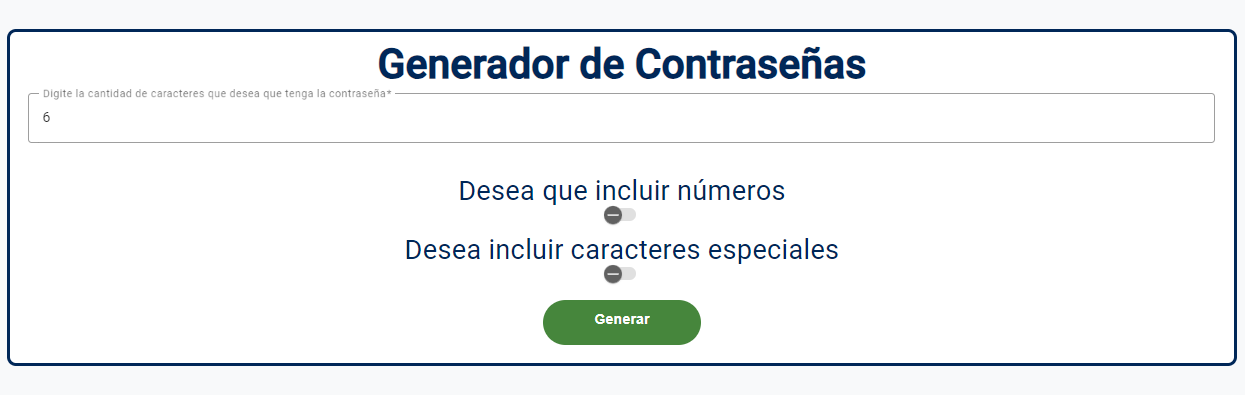
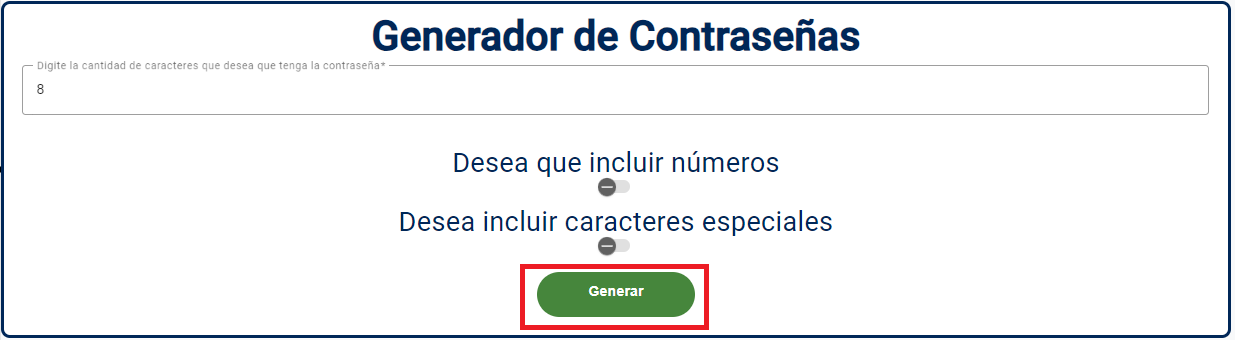
new file:   ImgReadme/btnCopiar.png 	modified:   ImgReadme/btnvalido.png 	new file:   ImgReadme/cuadroContra.png 	new file:   ImgReadme/switch.png 	modified:   README.md

Changed region(s): [[0.0, 0.0, 1.0, 1.0], [0.3692, 0.4412, 0.6462, 0.5882]]

diff --git a/README.md b/README.md
@@ -1,12 +1,12 @@
 # Introducción:
-Esta aplicación web desarrollada con el lenguaje de Angular y  se encarga de generar contraseñas aleatorias con base a las opciones que el usuario
-desee habilitar como la longitud, caracteres numéricos y especiales para la contraseña.
+Está aplicación web esta desarrollada con el lenguaje de Angular y  se encarga de generar contraseñas aleatorias con base a las opciones que el usuario desee habilitar como la longitud, caracteres numéricos y especiales para la contraseña.
 
 # Instalación:
-Para poder ejecutar esta aplicación es necesario instalar:
+Para poder ejecutar esta aplicación localmente es necesario instalar:
 - Node.js v18.
 - Angular CLI: 16.
 - Visual Studio code.
+
 Así como también instalar la extensión Angular Language Service v16.1.8.
 Y las siguientes librerías:
 - ClipboardModule(npm install ngx-clipboard).
@@ -33,7 +33,7 @@ Y las siguientes librerías:
     "zone.js": "~0.13.0"
 
 # Ejecución local:
-Para ejecutar localmente la aplicación, es necesario abrir el proyecto en visual studio y en una terminal ejecutar el comando "ng s".
+Para ejecutar localmente la aplicación, es necesario abrir el proyecto en visual studio y en una terminal ejecutar el comando "npm install". Luego, para abrir una ventana del navegador, en la misma terminal colocamos el codigo "ng s". Con esto el sistema nos indicará en qué local host está el proyecto disponible, como por ejemplo "http://localhost:4200/".
 
 # Manual de la aplicacion:
 Una vez que ejecutamos la aplicación localmente, el navegador nos mostrara la siguiente ventana:
@@ -41,6 +41,8 @@ Una vez que ejecutamos la aplicación localmente, el navegador nos mostrara la s
 
 En esta ventana podemos definir la cantidad de caracteres, si deseamos que la contraseña lleve números y
 si deseamos que la contraseña lleve caracteres especiales como: !,@,(,) entre otros.
+
+Importante tener en cuenta que las opciones de caracteres especiales y números, el sistema los tomara en cuenta para generar la contraseña al azar. Esto significa que cabe la posibilidad de que la contraseña, aunque marquemos esta opción, no contenga estos caracteres o números porque se generan aleatoriamente. 
 
 - Agregando la cantidad o longitud de caracteres:
 Como se muestra en la imagen, en el campo con la leyenda "Digite la cantidad de caracteres que desea   que tenga la contraseña", podemos digitar la cantidad de caracteres que queremos que se generen en la contraseña. En este caso voy a colocar una contraseña con la cantidad de 5 caracteres, ver imagen a continuación:
@@ -56,26 +58,32 @@ Este campo contiene validaciones las cuales se van a detallar a continuación:
 2- El primer número debe de ser mayor a 0. En caso de que coloquemos un 0 de entrada, el sistema nos mostrara el siguiente mensaje:
 ![Alt text](ImgReadme/cant0.png).
 3- El sistema no permitirá que se coloquen los siguientes caracteres: "+, -, . y e". Si se colocan nos mostrará el siguiente mensaje:
-![Alt text](ImgReadme/cant+-e.png)
+![Alt text](ImgReadme/cant+-e.png).
 
 - Escogiendo números en la contraseña:
+El sistema está configurado para que por defecto la contraseña no contenga números, por lo que nos mostrara el switch de la forma siguiente forma:
+![Alt text](ImgReadme/switch.png). Si al momento de querer generar una contraseña no cambiamos o interactuamos con este switch y presionamos el botón "Generar", el sistema procederá a generar la contraseña sin la posibilidad de que los números sean tomados en cuenta.
+
 Si deseamos que la contraseña contenga números, debemos de dar un clic al switch y deberá de quedar de la siguiente forma:
 ![Alt text](ImgReadme/numerosP.png).
 Una vez seleccionado el sistema nos mostrará el siguiente mensaje:
 ![Alt text](ImgReadme/mensajeN.png).
 
-Si "NO" deseamos que la contraseña contenga números, el switch deberá de quedar de la siguiente forma:
+Si cambiamos de parecer y "NO" deseamos que la contraseña contenga números después de haber interactuado con el switch, debemos de cambiar el switch y dejarlo de la siguiente forma:
 ![Alt text](ImgReadme/numerosS.png).
 Una vez seleccionado el sistema nos mostrará el siguiente mensaje:
 ![Alt text](ImgReadme/mensajeS.png).
 
 - Escogiendo caracteres especiales en la contraseña:
+El sistema está configurado para que por defecto la contraseña no contenga caracteres especiales, por lo que nos mostrara el switch de la forma siguiente forma:
+![Alt text](ImgReadme/switch.png). Si al momento de querer generar una contraseña no cambiamos o interactuamos con este switch y presionamos el botón "Generar", el sistema procederá a generar la contraseña sin la posibilidad de que los caracteres especiales sean tomados en cuenta.
+
 Si deseamos que la contraseña contenga caracteres especiales, debemos de dar un clic al switch y deberá de quedar de la siguiente forma:
 ![Alt text](ImgReadme/especialMP.png)
 Una vez seleccionado el sistema nos mostrará el siguiente mensaje:
 ![Alt text](ImgReadme/EspecialesM.png)
 
-Si "NO" deseamos que la contraseña contenga caracteres especiales, el switch deberá de quedar de la siguiente forma:
+Si cambiamos de parecer y "NO" deseamos que la contraseña contenga caracteres especiales después de haber interactuado con el switch, debemos de cambiar el switch y dejarlo de la siguiente forma:
 ![Alt text](ImgReadme/especialesP.png)
 Una vez seleccionado el sistema nos mostrará el siguiente mensaje:
 ![Alt text](ImgReadme/MensajesPS.png)
@@ -84,7 +92,13 @@ Una vez seleccionado el sistema nos mostrará el siguiente mensaje:
 Una vez que escogemos las opciones que deseamos y la longitud de la contraseña, procedemos con presionar el botón de "Generar" ![Alt text](ImgReadme/btnVerde.png), para que el sistema nos genere la contraseña y nos mostrara la contraseña en el siguiente mensaje:
 ![Alt text](ImgReadme/mensajeContra.png).
 
-Si queremos copiar la contraseña, podemos presionar el siguiente icono con la leyenda "Copiar contraseña" como se muestra en la siguiente imagen:
+La contraseña generada es la que esta en el cuadro en rojo de la siguiente imagen:
+![Alt text](ImgReadme/cuadroContra.png)
+
+Si queremos copiar la contraseña, podemos presionar el siguiente icono marcado en rojo de la siguiente imagen:
+![Alt text](ImgReadme/btnCopiar.png)
+
+ Como ayuda visual, al momento de posesionarnos sobre el icono de copiar, el sistema nos mostrara la leyenda "Copiar contraseña" como se muestra en la siguiente imagen:
 ![Alt text](ImgReadme/copiarcontra.png).
 
 Nota: la contraseña se guardará en el portapapeles, por lo que si desea puede copiarla o guardarla en su lugar de preferencia.
